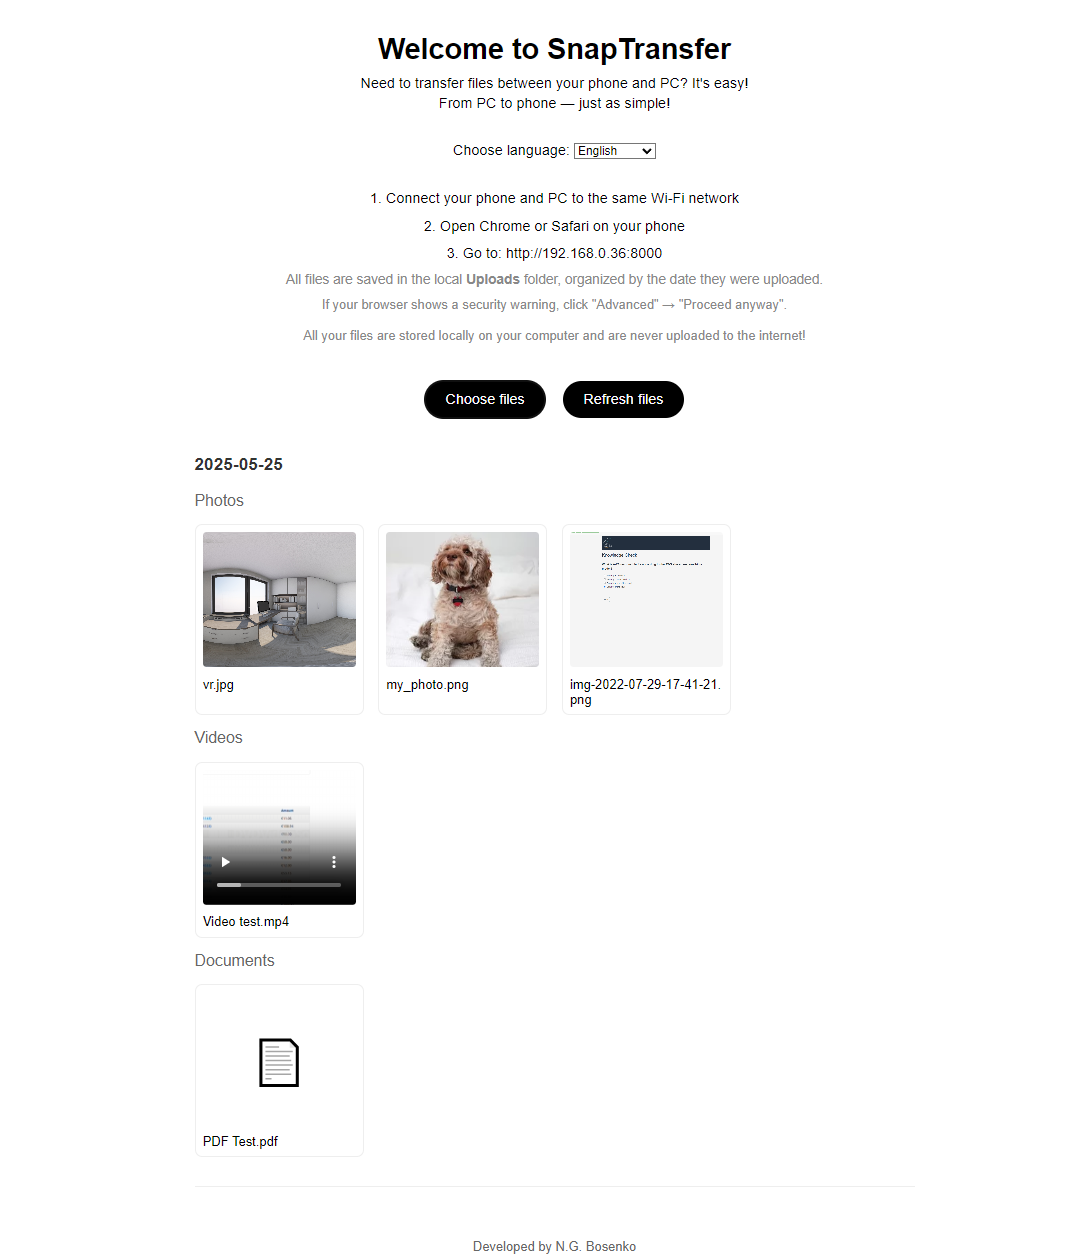
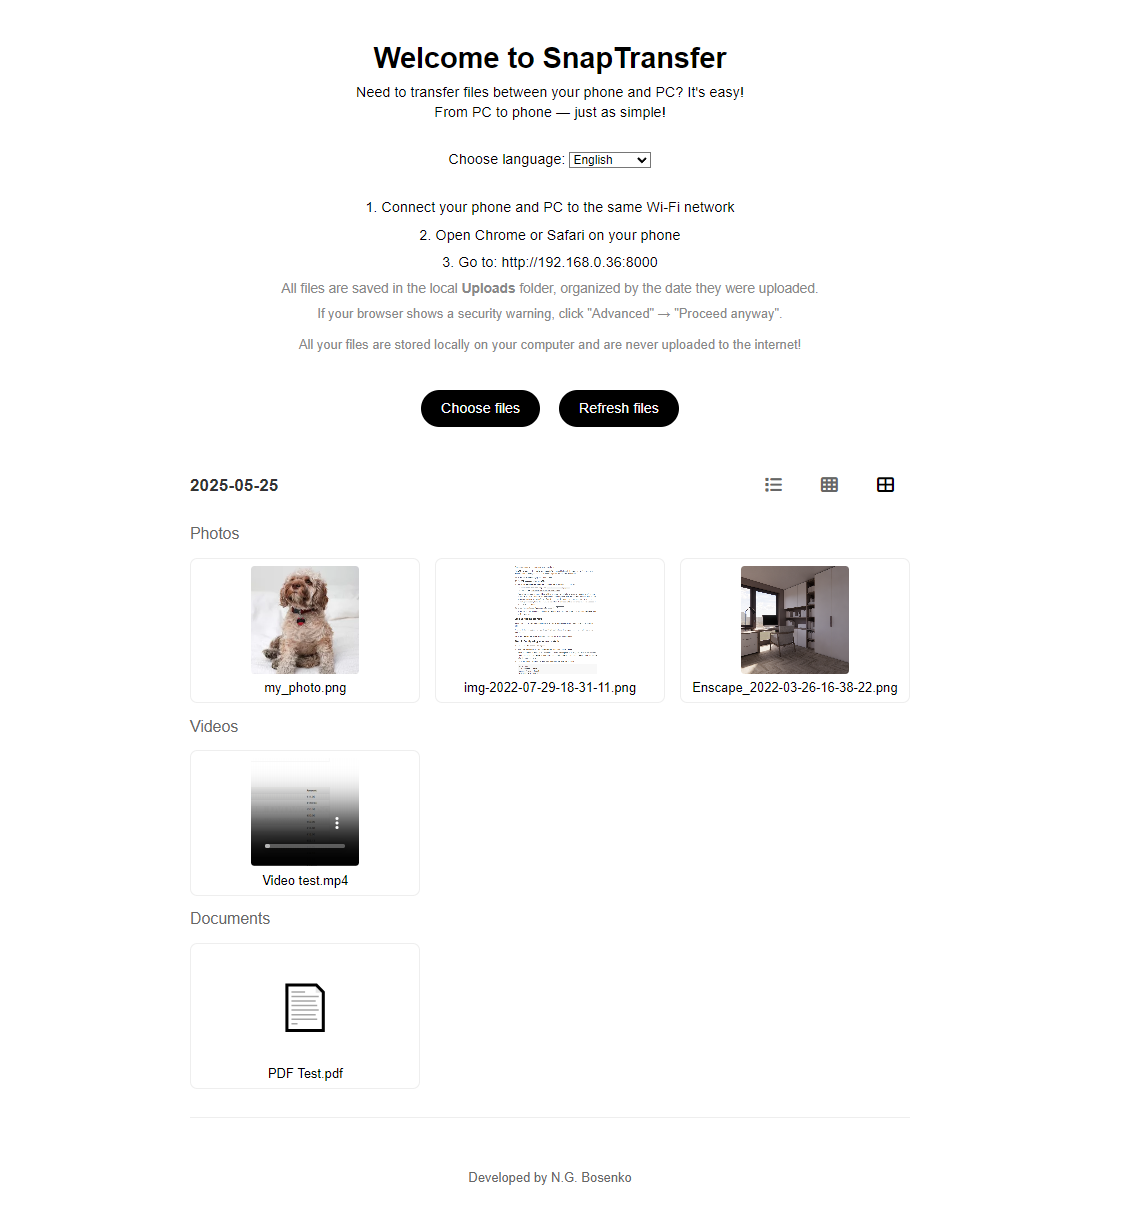
Add three display modes for uploaded files: list, grid, and table views

diff --git a/script.js b/script.js
@@ -7,6 +7,8 @@ document.addEventListener('DOMContentLoaded', function() {
     const uploadStatus = document.getElementById('uploadStatus');
     const languageSelect = document.getElementById('language');
 
+    let currentViewMode = 'list-view'; // по умолчанию
+
     function getFileIcon(filename) {
         const ext = filename.split('.').pop().toLowerCase();
         const icons = {
@@ -160,6 +162,18 @@ document.addEventListener('DOMContentLoaded', function() {
         modal.appendChild(content);
     }
 
+    function setViewMode(mode) {
+        currentViewMode = mode;
+        document.querySelectorAll('.file-grid').forEach(grid => {
+            grid.className = 'file-grid';
+            grid.classList.add(mode);
+        });
+        // Обновить активные кнопки
+        document.querySelectorAll('.view-mode-btn').forEach(btn => btn.classList.remove('active'));
+        document.querySelectorAll('.view-mode-btn[data-mode="' + mode + '"]')
+            .forEach(btn => btn.classList.add('active'));
+    }
+
     function displayFiles(files) {
         filesContainer.innerHTML = '';
         
@@ -169,7 +183,38 @@ document.addEventListener('DOMContentLoaded', function() {
             
             const dateHeader = document.createElement('div');
             dateHeader.className = 'date-header';
-            dateHeader.textContent = date.replace(/_/g, '-');
+            
+            const dateText = document.createElement('span');
+            dateText.textContent = date.replace(/_/g, '-');
+            dateHeader.appendChild(dateText);
+
+            // Add view mode buttons
+            const viewModes = document.createElement('div');
+            viewModes.className = 'view-modes';
+            
+            const listViewBtn = document.createElement('button');
+            listViewBtn.className = 'view-mode-btn';
+            listViewBtn.setAttribute('data-mode', 'list-view');
+            listViewBtn.innerHTML = '<i class="fas fa-list"></i>';
+            listViewBtn.title = 'Список';
+            
+            const smallIconsBtn = document.createElement('button');
+            smallIconsBtn.className = 'view-mode-btn';
+            smallIconsBtn.setAttribute('data-mode', 'small-icons-view');
+            smallIconsBtn.innerHTML = '<i class="fas fa-th"></i>';
+            smallIconsBtn.title = 'Мелкие значки';
+            
+            const largeIconsBtn = document.createElement('button');
+            largeIconsBtn.className = 'view-mode-btn';
+            largeIconsBtn.setAttribute('data-mode', 'large-icons-view');
+            largeIconsBtn.innerHTML = '<i class="fas fa-th-large"></i>';
+            largeIconsBtn.title = 'Крупные значки';
+
+            viewModes.appendChild(listViewBtn);
+            viewModes.appendChild(smallIconsBtn);
+            viewModes.appendChild(largeIconsBtn);
+            dateHeader.appendChild(viewModes);
+            
             dateSection.appendChild(dateHeader);
 
             for (const [category, fileList] of Object.entries(categories)) {
@@ -183,7 +228,7 @@ document.addEventListener('DOMContentLoaded', function() {
                     categorySection.appendChild(categoryHeader);
 
                     const fileGrid = document.createElement('div');
-                    fileGrid.className = 'file-grid';
+                    fileGrid.className = 'file-grid ' + currentViewMode;
 
                     fileList.forEach(file => {
                         fileGrid.appendChild(createFilePreview(file, date, category));
@@ -195,7 +240,15 @@ document.addEventListener('DOMContentLoaded', function() {
             }
 
             filesContainer.appendChild(dateSection);
+
+            // Назначить обработчики после добавления в DOM
+            listViewBtn.onclick = () => setViewMode('list-view');
+            smallIconsBtn.onclick = () => setViewMode('small-icons-view');
+            largeIconsBtn.onclick = () => setViewMode('large-icons-view');
         }
+        // После отрисовки, выделить активную кнопку
+        document.querySelectorAll('.view-mode-btn[data-mode="' + currentViewMode + '"]')
+            .forEach(btn => btn.classList.add('active'));
     }
 
     function refreshFiles() {

diff --git a/index.html b/index.html
@@ -5,6 +5,7 @@
     <meta charset="UTF-8" />
     <meta name="viewport" content="width=device-width, initial-scale=1.0" />
     <link rel="icon" href="favicon.ico" type="image/x-icon">
+    <link rel="stylesheet" href="https://cdnjs.cloudflare.com/ajax/libs/font-awesome/6.0.0/css/all.min.css">
     <title>SnapTransfer</title>
     <style>
         body {
@@ -64,6 +65,63 @@
             font-weight: bold;
             margin-bottom: 1em;
             color: #333;
+            display: flex;
+            align-items: center;
+            justify-content: space-between;
+        }
+
+        .view-modes {
+            display: flex;
+            gap: 8px;
+        }
+
+        .view-mode-btn {
+            background: none;
+            border: none;
+            padding: 4px 8px;
+            cursor: pointer;
+            color: #666;
+            transition: color 0.2s;
+        }
+
+        .view-mode-btn:hover {
+            color: #000;
+        }
+
+        .view-mode-btn.active {
+            color: #000;
+        }
+
+        /* View mode styles */
+        .file-grid.list-view {
+            display: flex !important;
+            flex-direction: column;
+            gap: 8px;
+        }
+
+        .file-grid.list-view .file-item {
+            display: flex;
+            align-items: center;
+            padding: 8px;
+            border: 1px solid #eee;
+            border-radius: 4px;
+        }
+
+        .file-grid.list-view .file-preview,
+        .file-grid.list-view .file-icon {
+            width: 40px;
+            height: 40px;
+            margin-right: 12px;
+        }
+
+        .file-grid.small-icons-view {
+            display: grid !important;
+            grid-template-columns: repeat(auto-fill, minmax(100px, 1fr));
+        }
+
+        .file-grid.large-icons-view {
+            display: grid !important;
+            grid-template-columns: repeat(auto-fill, minmax(200px, 1fr));
         }
 
         .category-section {
@@ -138,6 +196,42 @@
             height: 100%;
             background-color: #4CAF50;
             transition: width 0.3s ease;
+        }
+
+        .file-grid.small-icons-view .file-item,
+        .file-grid.large-icons-view .file-item {
+            display: flex;
+            flex-direction: column;
+            align-items: center;
+            justify-content: flex-start;
+            padding: 0.5em;
+            border: 1px solid #eee;
+            border-radius: 8px;
+            cursor: pointer;
+            transition: transform 0.2s;
+            height: auto;
+        }
+
+        .file-grid.small-icons-view .file-preview,
+        .file-grid.small-icons-view .file-icon {
+            width: 60px;
+            height: 60px;
+            margin: 0;
+        }
+
+        .file-grid.large-icons-view .file-preview,
+        .file-grid.large-icons-view .file-icon {
+            width: 120px;
+            height: 120px;
+            margin: 0;
+        }
+
+        .file-grid.small-icons-view .file-name,
+        .file-grid.large-icons-view .file-name {
+            margin-top: 0.5em;
+            font-size: 0.9em;
+            text-align: center;
+            word-break: break-all;
         }
     </style>
 </head>
